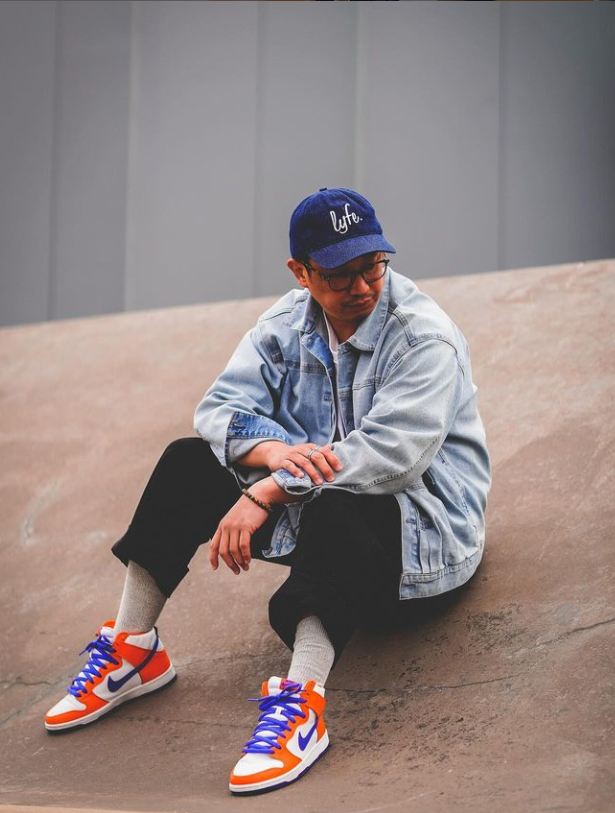
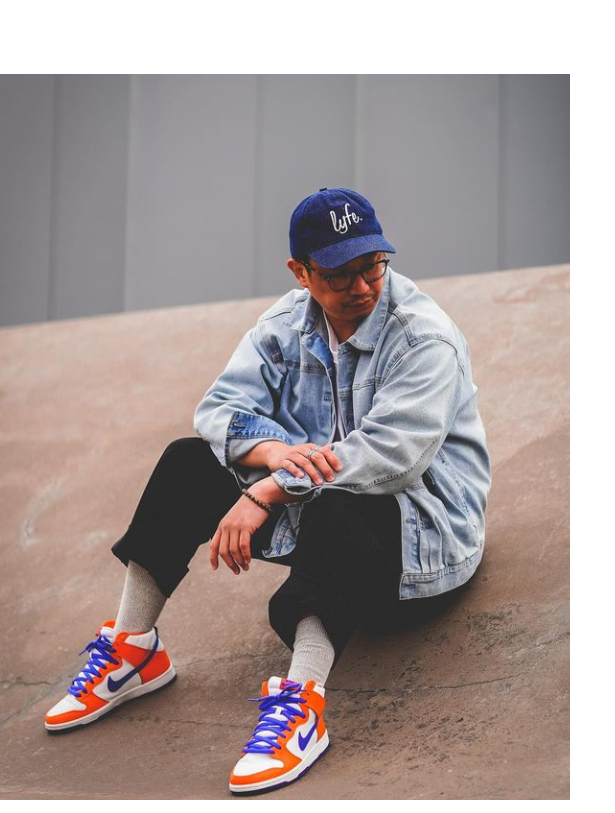
Media CSS Fix

Changed region(s): [[0.0, 0.0, 1.0, 1.0]]

diff --git a/styles.css b/styles.css
@@ -265,7 +265,7 @@ i {
 
 
 /* Media Queries for Responsive Design */
-@media only screen and (max-width: 768px) {
+@media only screen and (max-width: 800px) and (min-width: 200px) {
 
   .article-box img {
     width: 130%; /* Set width to 100% */
@@ -276,7 +276,7 @@ i {
   img {
     max-width: 100%;
     height: auto;
-    width: 180px;
+    width: 220px;
   }
 
   .navbar {
